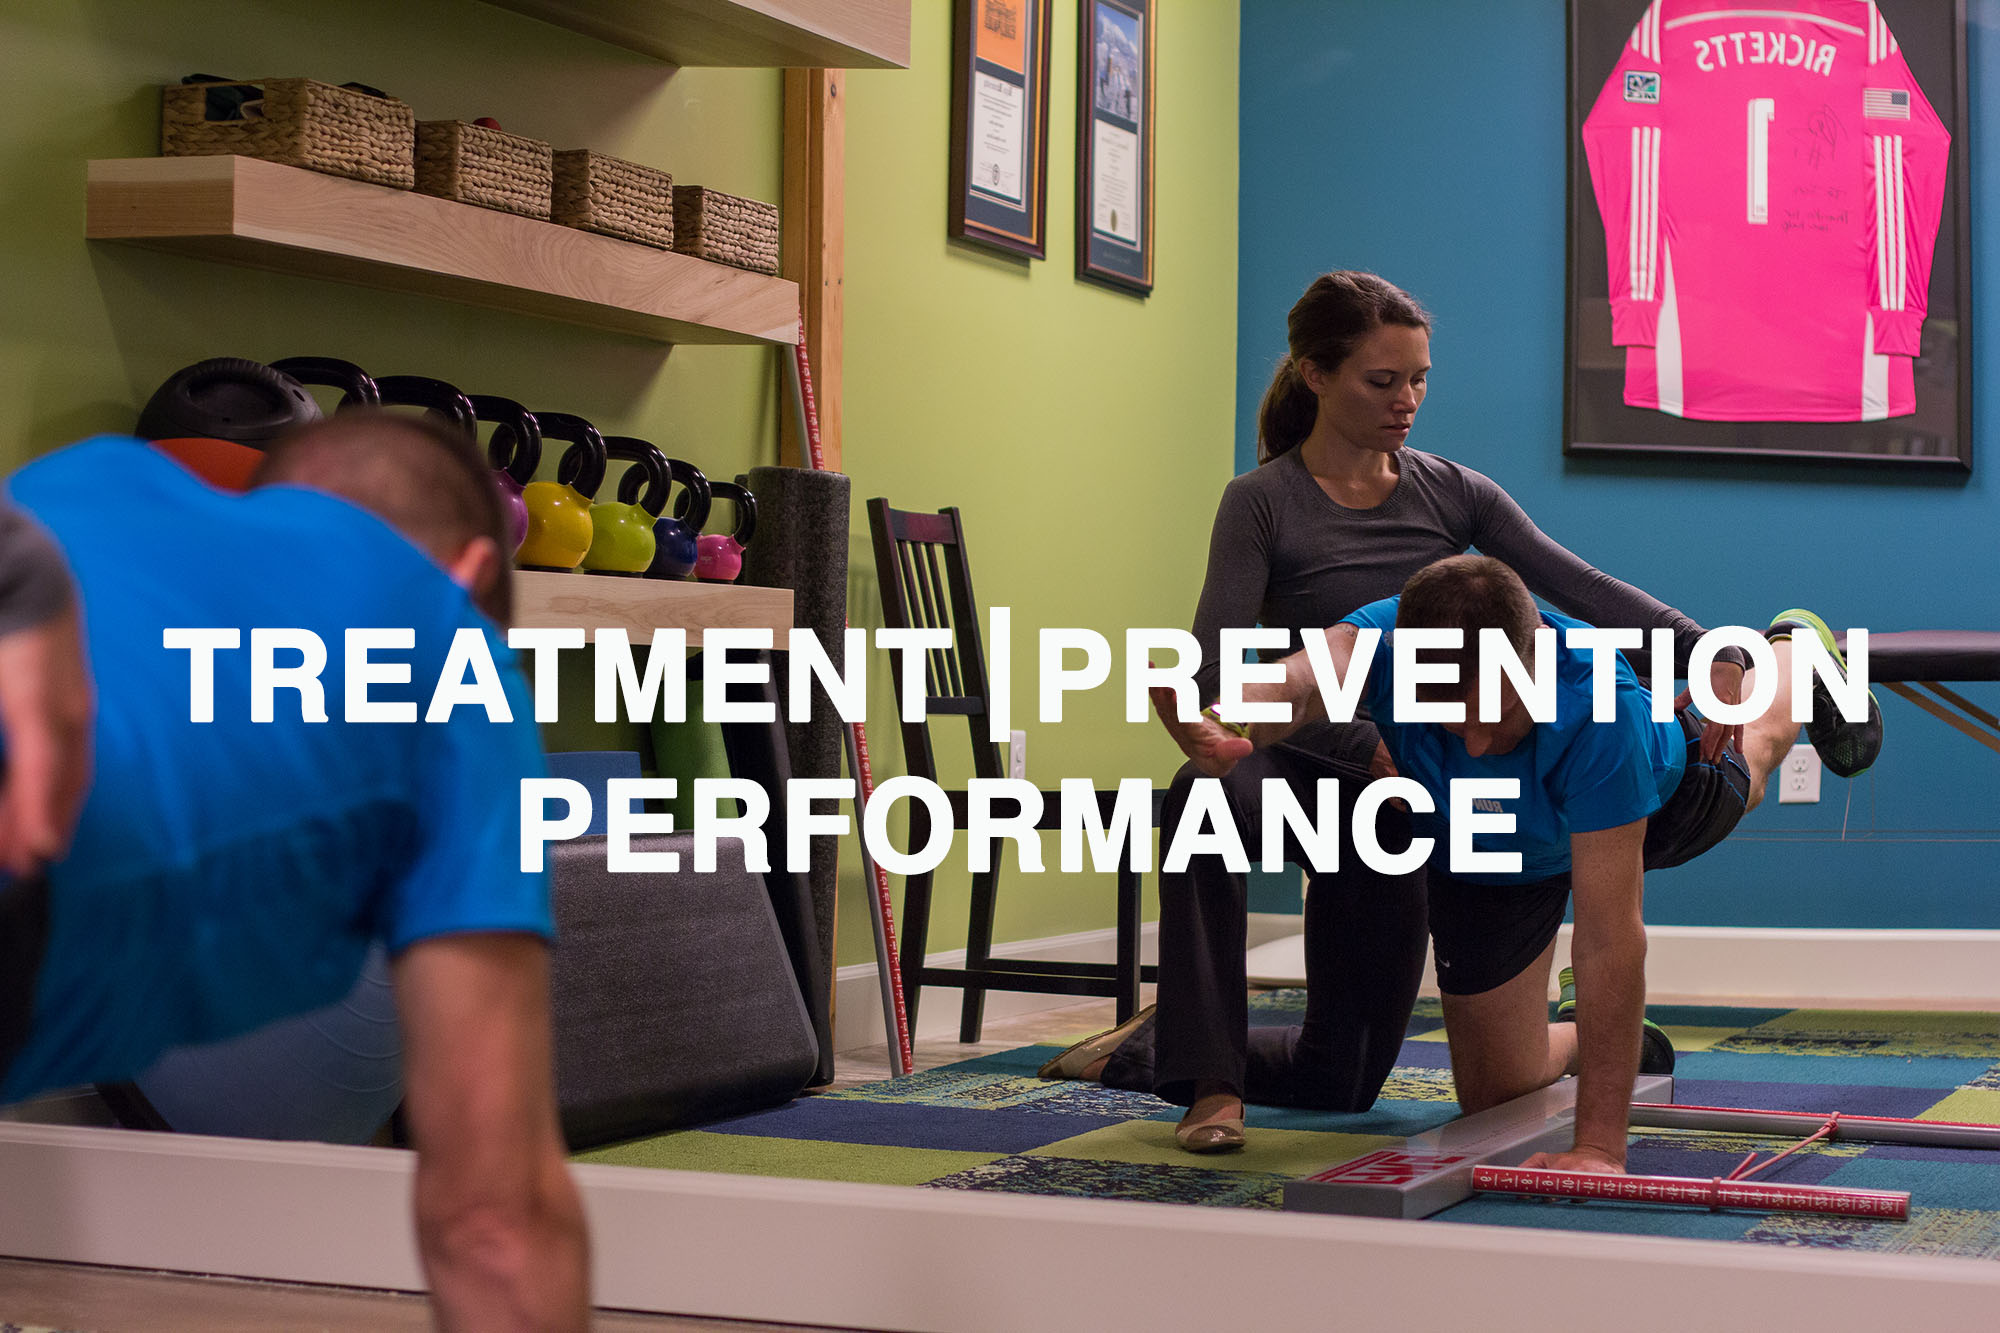
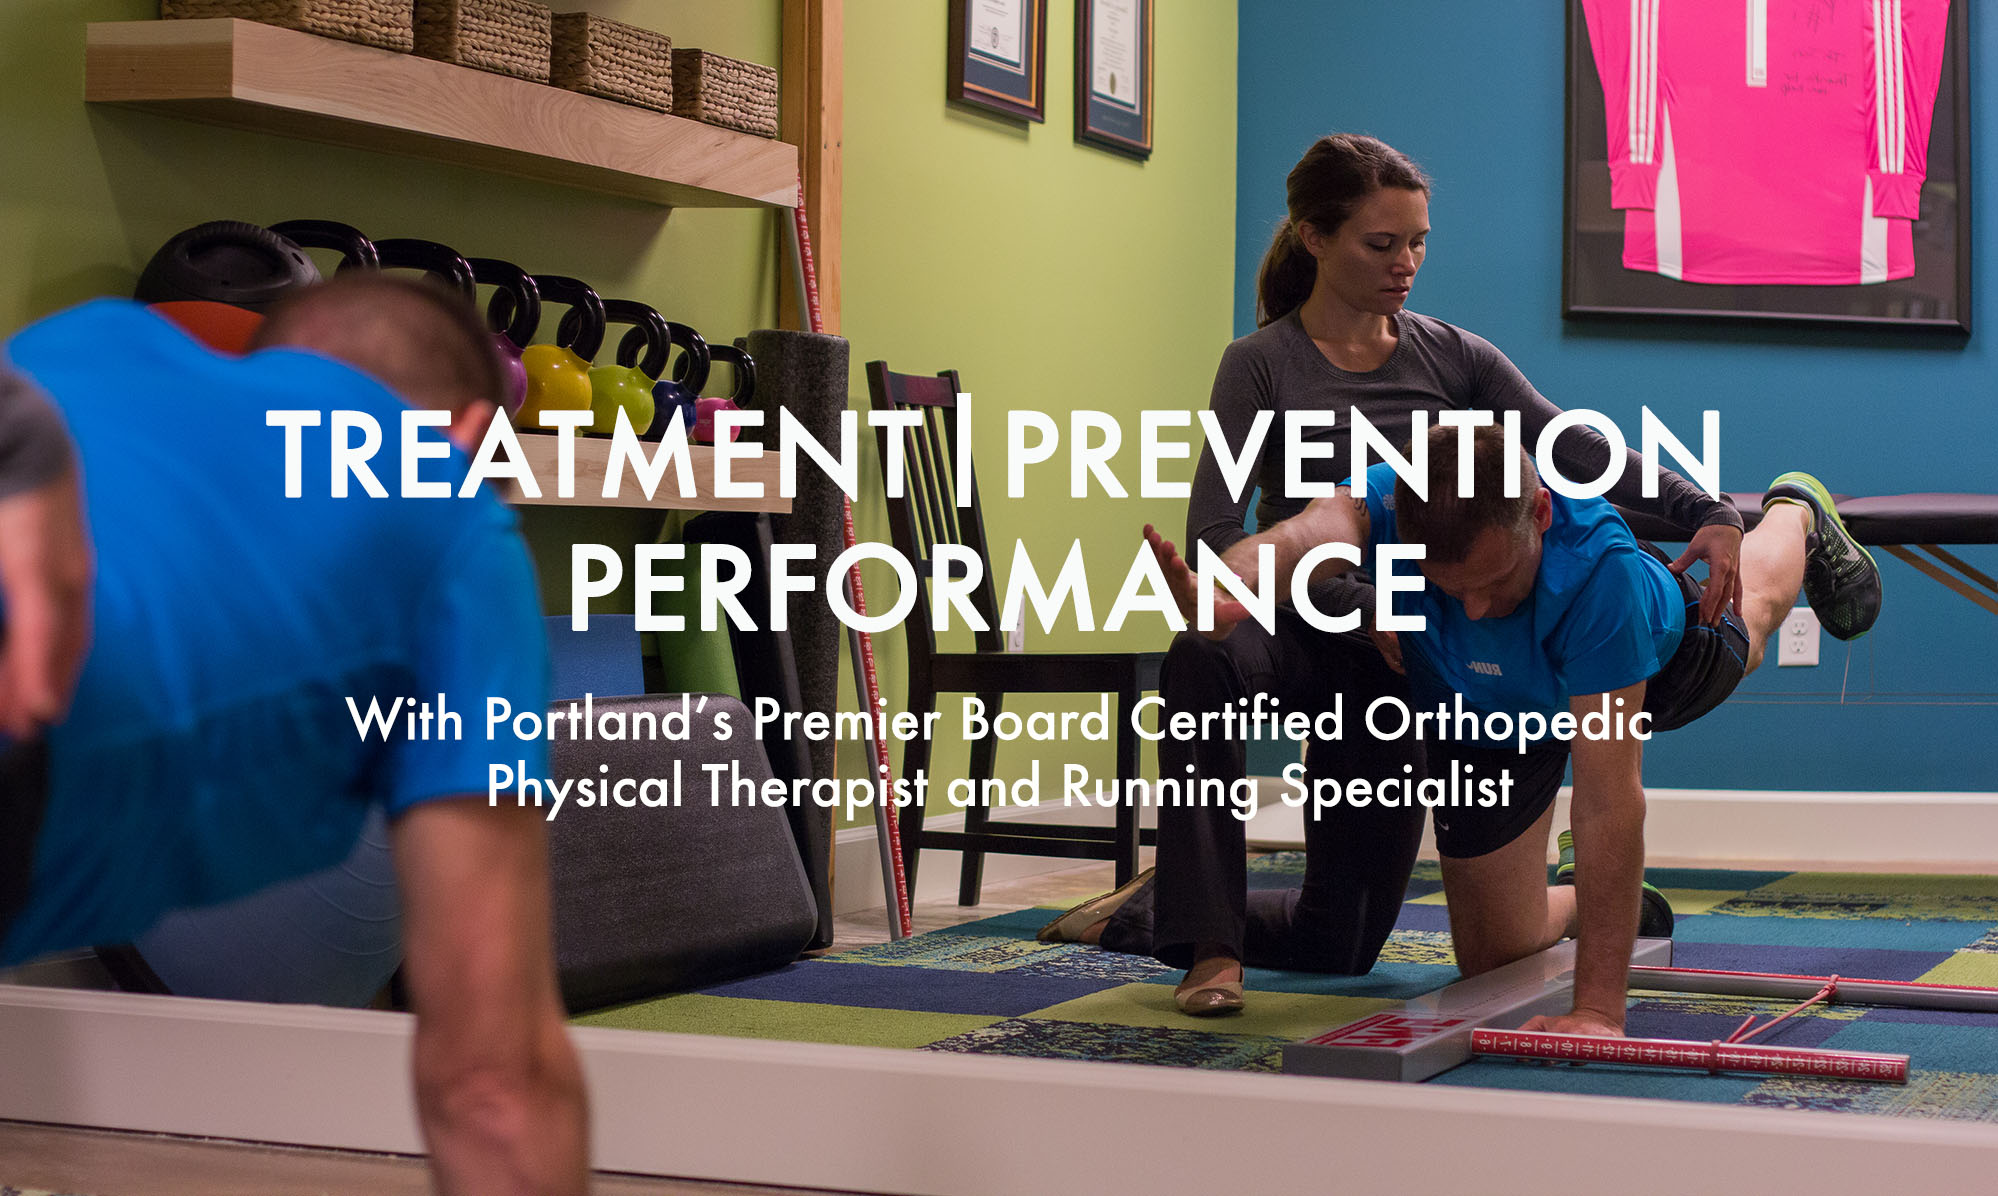
updating header images

diff --git a/index.html b/index.html
@@ -122,7 +122,7 @@
                                 <li data-transition="fade" style="" data-slotamount="1" data-masterspeed="1500" data-saveperformance="off">
 
                                     <!-- MAIN IMAGE -->
-                                    <img src="assets/images/movement-cropped.jpg"  alt="" data-lazyload="assets/images/movement-cropped.jpg" data-bgposition="center top" data-scale="cover" data-bgrepeat="no-repeat" >
+                                    <img src="assets/images/movement.jpg"  alt="" data-lazyload="assets/images/movement.jpg" data-bgposition="center top" data-scale="cover" data-bgrepeat="no-repeat" >
                                     <!-- Nav V -->
                                     <div class="tp-caption tp-resizeme customin"
                                         data-x="center"
